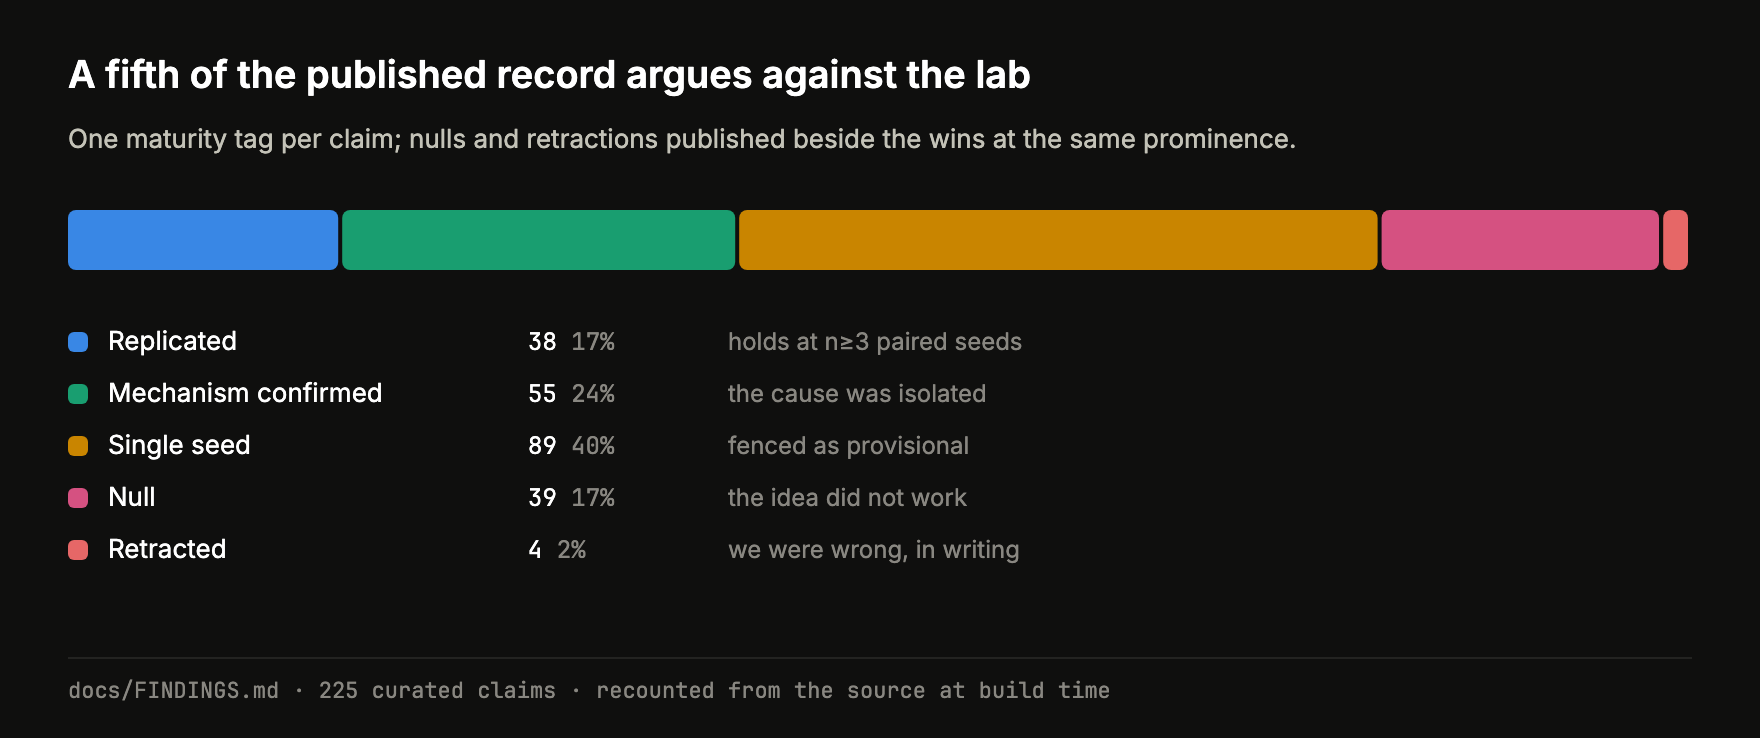
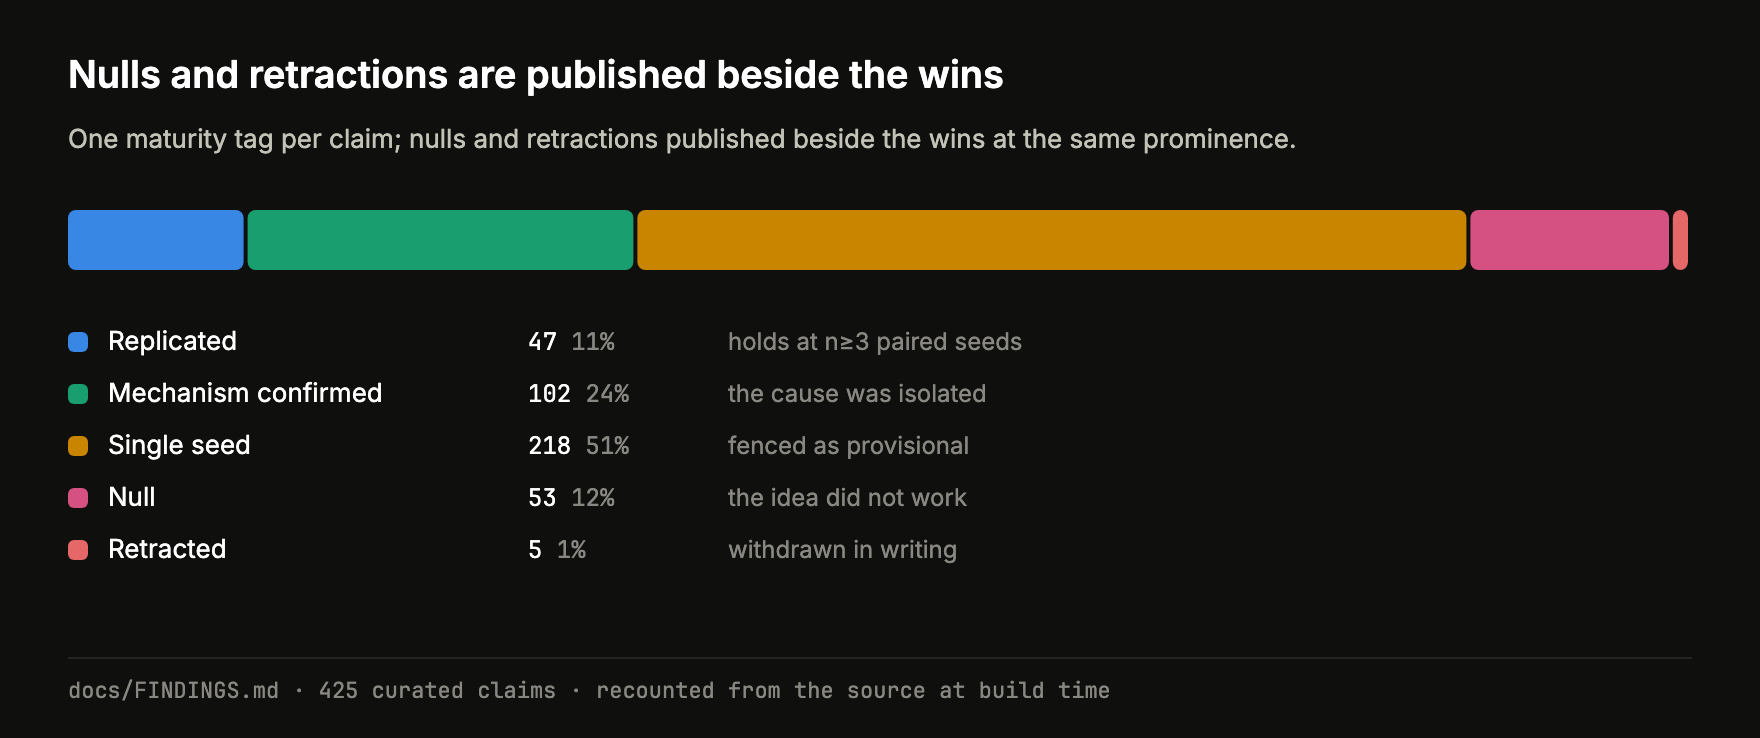
docs(readme): surgical front-page edits, Reproduce restructured, the negative share generated, stale honesty figure re-rendered (curation stage 3, commit 2)
README.md, keeping the four headline results and their scientific
wording (result 2 "basin-local" and result 3 "architecture-bound" are
deliberately unchanged and remain flagged for a claim-specific audit):
- "lab checks" CI badge under the title.
- "proved token-identical" -> "checked to be token-identical" (a
  test-based equivalence, not a proof).
- One line under "Four results" defining gate (in scores), paired and
  born; result 1 names the model on first use, Qwen3-30B-A3B-4bit from
  mlx-community (provenance: VERDICT MOE-GT-1-R5 body and the pinned
  model id in the driver), glosses the score (120 generated math
  problems, each answer checked by symbolic equivalence) and the
  demand ranking (experts ranked by how often the router selected them
  on math prompts); "resident"/"vehicle" replaced by plain words; the
  crest paragraph names "the 30B MoE".
- The C++ path is "a C++ implementation developed independently of
  this code, under the same operator", never an independent lab.
- The hand-written "A fifth of the published record is negative" is
  removed; scripts/gen_readme.py now emits the shares inside the
  generated block ("58 of 425 (13.6%) are null or retracted; 218 of
  425 (51.3%) are single-seed"), recounted from FINDINGS on every
  build. The sentence was true at 38 of 187 on 2026-08-11 and false at
  HEAD.
- "same-night control" -> "control run in the same session".
- One sentence explains why small receipts, pinned checkpoints and job
[…]

diff --git a/tests/test_gen_readme.py b/tests/test_gen_readme.py
@@ -35,3 +35,16 @@ def test_figures_json_honesty_ledger_matches_findings():
     assert parts["Null"] == c["NULL"]
     assert parts["Retracted"] == c["RETRACTED"]
     assert str(sum(c.values())) in fig["honesty_ledger"]["fence"]
+
+
+def test_rendered_honesty_asset_matches_figures_json():
+    """The committed SVG (the artifact GitHub renders as PNG) must carry
+    the same title and claim total as figures.json; a stale render
+    survived at HEAD for weeks until 2026-09-29."""
+    import json
+    fig = json.loads((ROOT / "docs" / "figures.json").read_text())["honesty_ledger"]
+    for name in ("honesty_ledger.svg", "honesty_ledger-dark.svg"):
+        svg = (ROOT / "docs" / "assets" / "web" / name).read_text()
+        assert fig["title"] in svg, name
+        total = sum(p["value"] for p in fig["parts"])
+        assert f"{total} curated claims" in svg, name

diff --git a/scripts/gen_readme.py b/scripts/gen_readme.py
@@ -45,11 +45,15 @@ def counts() -> dict[str, int]:
 def render() -> str:
     c = counts()
     total = sum(c.values())
+    neg = c["NULL"] + c["RETRACTED"]
     return (f"The {total} curated claims in FINDINGS by maturity: "
             f"{c['REPLICATED']} replicated, "
             f"{c['MECHANISM-CONFIRMED']} mechanism-confirmed, "
             f"{c['SINGLE-SEED']} single-seed, {c['NULL']} null, "
-            f"{c['RETRACTED']} retracted.")
+            f"{c['RETRACTED']} retracted. "
+            f"{neg} of {total} ({100 * neg / total:.1f}%) are null or "
+            f"retracted; {c['SINGLE-SEED']} of {total} "
+            f"({100 * c['SINGLE-SEED'] / total:.1f}%) are single-seed.")
 
 
 # figure part label -> maturity tag, the mapping tests/test_gen_readme.py

diff --git a/README.md b/README.md
@@ -1,8 +1,10 @@
 # llmopt
 
+[![lab checks](https://github.com/39hops/llmopt/actions/workflows/ci.yml/badge.svg?branch=main)](https://github.com/39hops/llmopt/actions/workflows/ci.yml)
+
 **A mathematics and physics ML lab where nothing counts until an oracle
 agrees.** Answers are checked by symbolic equivalence, not string match.
-Decoding is proved token-identical to eager greedy. Generated assembly is
+Decoding is checked to be token-identical to eager greedy. Generated assembly is
 assembled and run. Weights are scored by what they compute, never by their
 distance to other weights. Every experiment is pre-registered with a
 threshold it can fail, and the failures are published beside the wins.
@@ -27,6 +29,13 @@ stamped in the footer, so the pixels trace to exact artifacts.
 
 ## Four results
 
+Each result names its own scope. In scores, a gate is the fixed problem set
+a model is scored on, so gating N means solving N of its problems; paired
+means the same seed and device on both arms of a comparison, and a claim
+says which arms are paired; a model is born when it is trained from a fresh
+initialization. The rest of the vocabulary is in the
+[glossary](GLOSSARY.md).
+
 **Which experts you keep is the difference between 0 and 81 of 120.**
 
 <picture>
@@ -34,12 +43,15 @@ stamped in the footer, so the pixels trace to exact artifacts.
   <img alt="A 30B-class mixture-of-experts masked to 58 of 128 experts per layer. Demand-ranked selection averages 81 of 120 against the paired full model's 66; two random masks and an anti-demand mask at the identical keep fraction score zero." src="docs/assets/web/routing_crest.png">
 </picture>
 
-Masking a resident 30B-class MoE to the top 45.3% of its per-layer
-math-demand experts **beat the paired full model at all six paired seeds** —
-80, 82, 81 against 63, 73, 63 at the three registered ones, pooled +14.7
-against a +7 bar declared before the run. At the identical keep fraction,
+The score is solves out of 120 generated math problems, each answer checked
+by symbolic equivalence, never by string match. Masking Qwen3-30B-A3B-4bit
+(the 30B mixture-of-experts model behind every MoE result here, from
+`mlx-community`) to the top 45.3% of its per-layer math-demand experts,
+ranked by how often its router selected them on math prompts, **beat the paired full model at all six paired
+seeds**: 80, 82, 81 against 63, 73, 63 at the three registered ones, pooled
++14.7 against a +7 bar declared before the run. At the identical keep fraction,
 random and anti-demand masks score nothing at all. The effect is selection,
-not sparsity — and *why* it happens is still unexplained. Scope: one vehicle,
+not sparsity, and *why* it happens is still unexplained. Scope: one model,
 one keep rule, mathgen L1–3, Mac MLX; the zero-scoring controls ran at their
 own seed and are not paired to those arms.
 
@@ -92,15 +104,15 @@ narrows again at k=128.
 </picture>
 
 <!-- llmopt:generated honesty-ledger:start -->
-The 425 curated claims in FINDINGS by maturity: 47 replicated, 102 mechanism-confirmed, 218 single-seed, 53 null, 5 retracted.
+The 425 curated claims in FINDINGS by maturity: 47 replicated, 102 mechanism-confirmed, 218 single-seed, 53 null, 5 retracted. 58 of 425 (13.6%) are null or retracted; 218 of 425 (51.3%) are single-seed.
 <!-- llmopt:generated honesty-ledger:end -->
 
-A fifth of the published record is negative. Nulls and retractions sit beside
-the wins at the same prominence, because a ledger that only records successes
-cannot be checked. Each claim carries exactly one maturity tag and its scope
+Nulls and retractions sit beside the wins at the same prominence, because a
+ledger that only records successes cannot be checked. Each claim carries exactly one maturity tag and its scope
 fences — device, seed count, format, regime — and those tags are part of the
 claim, not optional reading. The counts above are recounted from the source
-every time the figure is built.
+every time the figure is built. How a claim is made and policed, from
+pre-registration to amendment, is in [METHODS](docs/METHODS.md).
 
 Start with the [curated findings](docs/FINDINGS.md), organized by evidence
 maturity rather than chronology. The [glossary](GLOSSARY.md) defines the
@@ -108,6 +120,9 @@ vocabulary; [RESULTS](docs/RESULTS.md) is the living append-only ledger every
 claim resolves to; [REPRODUCE](docs/REPRODUCE.md) is the walkthrough.
 
 ## What is built
+
+The code and tests behind each system are indexed in
+[ENGINEERING](docs/ENGINEERING.md).
 
 ```bash
 pip install -e ".[dev]"          # core: torch, numpy, sympy
@@ -153,7 +168,8 @@ RJOB_LOCAL=1 python -m llmopt.reproduce gravmoe-rb1
 `PASS` means the final training-trajectory digest exactly matches the
 committed pin. A 1000-step integer birth replays **bit-identically** on a
 second machine, and a 200-step birth is trajectory-identical across Mac CPU,
-an RTX 3080, and an external lab's independent C++ engine.
+an RTX 3080, and a C++ implementation developed independently of this code,
+under the same operator.
 
 Trajectory agreement is not oracle correctness: it certifies the pinned weight
 path and teacher-forced readouts. Free-run symbolic scoring additionally needs
@@ -161,9 +177,14 @@ diet row text that is not committed, so artifact-backed arms run in an
 explicit trajectory-only mode. `python -m llmopt.reproduce --list` shows the
 registry.
 
+Small text receipts, pinned checkpoints and job cards that booked verdicts
+cite are committed under `logs/`, `checkpoints/` and `jobs/`, so a verdict's
+evidence travels with the repository; large artifacts stay untracked and the
+receipt lock records which is which.
+
 ## What remains uncertain
 
-**The crest has no mechanism.** Why masking a deployed MoE to its demand
+**The crest has no mechanism.** Why masking the 30B MoE to its demand
 coalition beats full width on mathematics is unexplained. The two quantities a
 keep rule optimizes — coverage and recall of demanded experts — were measured
 not to predict even the *sign* of the effect.
@@ -171,7 +192,7 @@ not to predict even the *sign* of the effect.
 **The best current candidate is interference removal**, reachable either by
 the demand mask or by deleting a named 80-expert carrier population, 1.3% of
 the bank. Both forms replicated at three fresh paired seeds, with the router
-measured over-inclusive at the carriers' rank class. A same-night control
+measured over-inclusive at the carriers' rank class. A control run in the same session
 complicated it: a matched-size random fill resurrected a dead core about as
 well as the verbal-branch fill, but that random pool was itself ~45%
 verbal-branch experts. Fills that exclude the verbal branch score 0 and 7 of
@@ -198,9 +219,16 @@ Name the exact commit SHA and the exact verdict entry in
 living, so an unpinned citation is not reproducible. Repository metadata is in
 [`CITATION.cff`](CITATION.cff).
 
-The [board](docs/BOARD.md), [theory map](docs/THEORY.md), [idea
-ledger](docs/RIFF-LEDGER.md), [handoffs](docs/handoffs/), and
-[machine-readable index](docs/results-index.jsonl) are living surfaces.
-Charter: mathematics and physics only.
+## Where to go next
+
+- [Findings](docs/FINDINGS.md): every curated claim with its maturity tag and scope.
+- [Engineering](docs/ENGINEERING.md): what is built, with the code and tests to read first.
+- [Reproduce](docs/REPRODUCE.md): the one-command trajectory replay and what it certifies.
+- [The docs map](docs/README.md): which documents are curated, which are the record, which are generated views, and which are the lab's own working notes.
+
+Day-to-day work is carried out by coding agents under mechanical guards
+(pre-registration adjudication, receipt locks, generated-document checks; see
+[CLAUDE.md](CLAUDE.md) and `.claude/`); every claim passes those guards, and
+one human operator runs the lab. Charter: mathematics and physics only.
 
 Licensed under [Apache-2.0](LICENSE).

diff --git a/docs/REPRODUCE.md b/docs/REPRODUCE.md
@@ -1,9 +1,13 @@
-# Reproduce the deterministic gravmoe trajectory
+# Reproduce
 
-This is the external start-here path for the repository's mathematics and
-physics work. It replays one pinned deterministic-birth training trajectory
-from committed inputs and checks its digest. It is not a general model-quality
-benchmark.
+This page covers two reproduction paths. The registry in
+[`llmopt/reproduce.py`](../llmopt/reproduce.py) replays sixteen pinned
+integer-training trajectories from committed inputs on CPU (about 80 seconds
+for the RB1 arm) and checks each digest against its committed pin; that is
+the start-here path, and it is digest-exact, not a correctness check. The second half documents the manual MoE
+ground-truth recipes, which run a 30B model and regenerate measurements
+rather than bytes. Neither is a general model-quality benchmark. For the rest
+of the documentation start at the [docs map](README.md).
 
 ## Quick start
 
@@ -20,9 +24,7 @@ Then run the adopted RB1 reproduction:
 RJOB_LOCAL=1 python -m llmopt.reproduce gravmoe-rb1
 ```
 
-Plan about 80 seconds for an arm. **VERDICT SOL-ADOPTION-1**, at repository
-commit `0dea97283d4a270c4f8b2b1ad48adcf01b42e5f8`, records the exact house RB1
-run as 81.7 seconds.
+Plan about 80 seconds for an arm.
 
 The runner streams training diagnostics. Its success line has this exact
 shape:
@@ -46,10 +48,9 @@ identity.
 
 ## What a fresh clone contains
 
-Repository commit `4ef9cd511369023d69db7332aebf36517de62951` made the
-reproduction artifact-backed. The trajectory and teacher-forced loss reproduce
-from committed window bytes; the runner verifies their contract and SHA before
-using them. The relevant implementation is
+The reproduction is artifact-backed: the trajectory and teacher-forced loss
+reproduce from committed window bytes, and the runner verifies their contract
+and SHA before using them. The relevant implementation is
 [`llmopt/reproduce.py`](../llmopt/reproduce.py), and the artifacts and registry
 live in [`scratch/detbwd_gmoe_ref/`](../scratch/detbwd_gmoe_ref/).
 
@@ -62,9 +63,8 @@ correctness result.
 
 ## The complete pin registry
 
-The command above selects RB1. **VERDICT SOL-ADOPTION-1**, at repository commit
-`0dea97283d4a270c4f8b2b1ad48adcf01b42e5f8`, books `--list` coverage of all
-16 pins, including the other 15:
+The command above selects RB1. The registry lists all 16 pins, including the
+other 15:
 
 ```bash
 python -m llmopt.reproduce --list
@@ -87,6 +87,16 @@ GRAVMOE-P4-DEVICE** at repository commit
 
 Names and digests printed by `--list` come directly from the committed JSON;
 do not copy a digest from prose when the registry can answer it.
+
+## Provenance of the pins
+
+The ledger entries and repository commits behind the quick start:
+
+- **VERDICT SOL-ADOPTION-1**, at repository commit
+  `0dea97283d4a270c4f8b2b1ad48adcf01b42e5f8`, records the exact house RB1
+  run as 81.7 seconds and books `--list` coverage of all 16 pins.
+- Repository commit `4ef9cd511369023d69db7332aebf36517de62951` made the
+  reproduction artifact-backed.
 
 ## What the external close establishes
 
